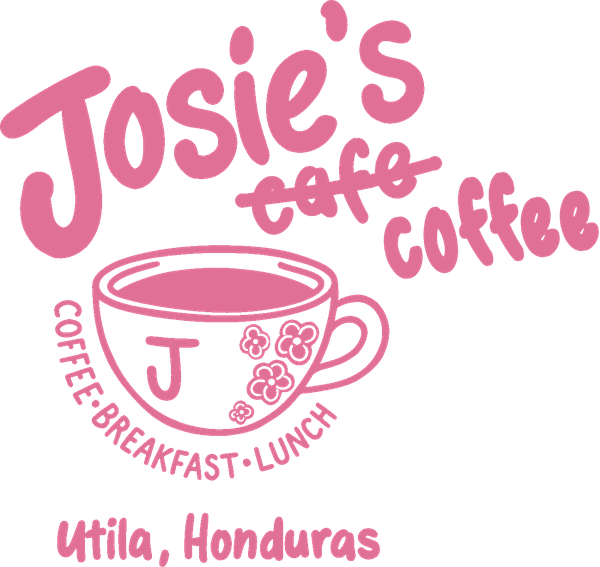
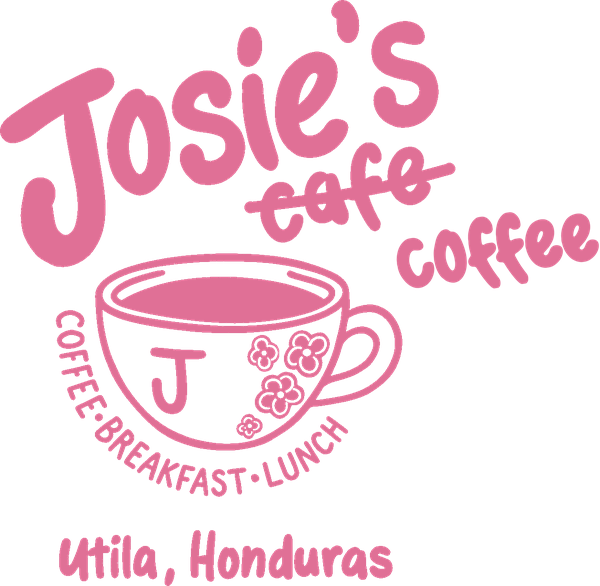
Coffee lettering rounder and shorter, f tails drop below the line; crossout matches weight
Claude-Session: https://claude.ai/code/session_01CfMf1e5BZZ6SoDWNVf6q1k

diff --git a/tools/art/make_coffee_logo.py b/tools/art/make_coffee_logo.py
@@ -3,7 +3,7 @@ import sys, numpy as np
 from PIL import Image, ImageDraw, ImageFilter
 from scipy import ndimage as ndi
 SRC,OUT=sys.argv[1],sys.argv[2]; MARK=len(sys.argv)>3
-SS=3; CS=0.72; CA=9; VS=1.25; CAFE=0.88; WID=1500; AX,AY=870,735
+SS=3; CS=0.72; CA=9; VS=1.0; CAFE=0.88; WID=1500; AX,AY=870,735
 LOGO=(255,162,200); ROSE=(181,85,115); COL=LOGO if MARK else ROSE
 im=Image.open(SRC).convert('RGBA'); A=np.array(im); al=A[:,:,3]
 lab,n=ndi.label(al>200)
@@ -21,15 +21,15 @@ print(IDS)
 g={k:comp(v) for k,v in IDS.items()}
 g['o']=g['o'].resize((round(g['o'].width*g['c'].height/g['o'].height*1.06),round(g['c'].height*1.06)),Image.LANCZOS)
 def bold(img,b):
-    a=img.split()[3].filter(ImageFilter.MaxFilter(b*2+1)).filter(ImageFilter.GaussianBlur(SS)).point(lambda v:max(0,min(255,int((v-115)*4))))
+    a=img.split()[3].filter(ImageFilter.MaxFilter(b*2+1)).filter(ImageFilter.GaussianBlur(SS*2)).point(lambda v:max(0,min(255,int((v-128)*6))))
     o=Image.new('RGBA',img.size,COL+(0,)); o.putalpha(a); return o
-def word(txt,sc,b,gap=7):
+def word(txt,sc,b,gap=3):
     ps=[]
     for ch in txt:
         gl=g[ch]; pad=b*SS+2; gl=Image.fromarray(np.pad(np.array(gl),((pad,pad),(pad,pad),(0,0))),'RGBA')
         gl=gl.resize((round(gl.width*sc*SS),round(gl.height*sc*SS*VS)),Image.LANCZOS); ps.append(bold(gl,round(b*SS*sc)))
-    H=int(max(p.height for p in ps))+40*SS; base=H-20*SS
-    pl_=[base-p.height+int(b*SS*sc) for p in ps]; xs=[20*SS]
+    H=int(max(p.height for p in ps)*1.2)+40*SS; base=H-20*SS
+    pl_=[base-p.height+int(b*SS*sc)+(int(p.height*0.16) if ch=='f' else 0) for p,ch in zip(ps,txt)]; xs=[20*SS]
     for i in range(1,len(ps)):
         a1=np.array(ps[i-1].split()[3])>128; a2=np.array(ps[i].split()[3])>128; need=-1e9
         for y in range(H):
@@ -51,8 +51,8 @@ can=Image.new('RGBA',(WID,im.height),(0,0,0,0)); can.alpha_composite(Image.froma
 can.alpha_composite(cf,((x0+x1)//2-cw//2,(y0+y1)//2-ch//2))
 # crossout, same weight as coffee strokes
 d=ImageDraw.Draw(can); P=[(566,562),(724,542),(845,519),(983,481)]
-d.line(P,fill=COL+(255,),width=30,joint='curve')
-for x,y in (P[0],P[-1]): d.ellipse([x-15,y-15,x+15,y+15],fill=COL+(255,))
-s=word('coffee',CS,4); r=s.rotate(CA,resample=Image.BICUBIC,expand=True); r=r.resize((r.width//SS,r.height//SS),Image.LANCZOS); bb=r.getbbox()
+d.line(P,fill=COL+(255,),width=24,joint='curve')
+for x,y in (P[0],P[-1]): d.ellipse([x-12,y-12,x+12,y+12],fill=COL+(255,))
+s=word('coffee',CS,2); r=s.rotate(CA,resample=Image.BICUBIC,expand=True); r=r.resize((r.width//SS,r.height//SS),Image.LANCZOS); bb=r.getbbox()
 can.alpha_composite(r,(AX-bb[0],AY-bb[3])); print('coffee',bb)
 can.save(OUT)
